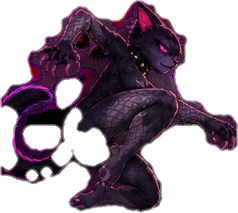
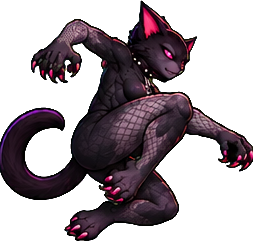
Replace Vex sprites with the green-screen sheet cut
Cleaner edges and consistent proportions across all 21 poses. The
cutter's green-key mode can now keep only the main figure so tails
crossing into neighbouring cells are dropped.

Claude-Session: https://claude.ai/code/session_01WBYK5V3ivYcmqzsh95F6Vz

diff --git a/assets/fighters/vex/manifest.js b/assets/fighters/vex/manifest.js
@@ -1,1 +1,1 @@
-SPRITE_MANIFEST['vex'] = {"idle_1":{"w":198,"h":308,"fx":112},"idle_2":{"w":137,"h":308,"fx":67},"walk_1":{"w":186,"h":313,"fx":104},"walk_2":{"w":186,"h":313,"fx":104},"walk_3":{"w":178,"h":312,"fx":97},"walk_4":{"w":173,"h":312,"fx":97},"walk_5":{"w":162,"h":313,"fx":101},"crouch_1":{"w":268,"h":209,"fx":164},"jump_1":{"w":238,"h":213,"fx":118},"jump_2":{"w":245,"h":261,"fx":90},"light_1":{"w":235,"h":265,"fx":80},"light_2":{"w":318,"h":267,"fx":112},"heavy_1":{"w":232,"h":267,"fx":133},"heavy_2":{"w":270,"h":273,"fx":107},"special_1":{"w":208,"h":343,"fx":130},"special_2":{"w":208,"h":241,"fx":92},"special_3":{"w":248,"h":306,"fx":78},"block_1":{"w":161,"h":292,"fx":67},"hit_1":{"w":233,"h":269,"fx":59},"ko_1":{"w":348,"h":173,"fx":328},"win_1":{"w":184,"h":337,"fx":79}};
+SPRITE_MANIFEST['vex'] = {"idle_1":{"w":170,"h":348,"fx":84},"idle_2":{"w":170,"h":350,"fx":97},"walk_1":{"w":172,"h":343,"fx":84},"walk_2":{"w":187,"h":345,"fx":113},"walk_3":{"w":168,"h":342,"fx":89},"walk_4":{"w":195,"h":343,"fx":115},"walk_5":{"w":137,"h":339,"fx":81},"crouch_1":{"w":251,"h":235,"fx":142},"jump_1":{"w":253,"h":241,"fx":112},"jump_2":{"w":249,"h":266,"fx":87},"light_1":{"w":224,"h":278,"fx":101},"light_2":{"w":268,"h":280,"fx":112},"heavy_1":{"w":232,"h":284,"fx":117},"heavy_2":{"w":260,"h":279,"fx":109},"special_1":{"w":190,"h":328,"fx":100},"special_2":{"w":213,"h":253,"fx":96},"block_1":{"w":207,"h":315,"fx":85},"hit_1":{"w":167,"h":314,"fx":76},"hit_2":{"w":233,"h":302,"fx":100},"ko_1":{"w":329,"h":126,"fx":182},"win_1":{"w":169,"h":328,"fx":83}};
